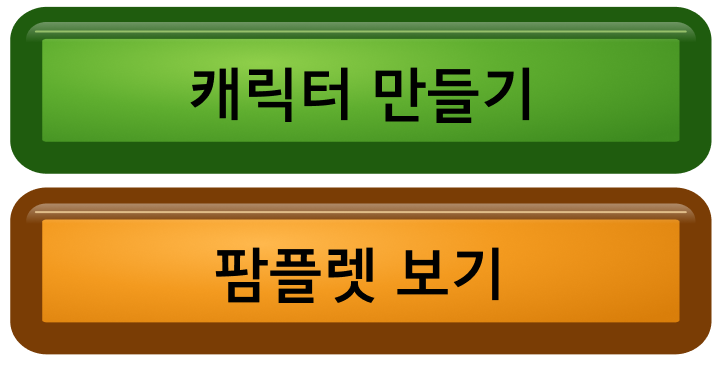
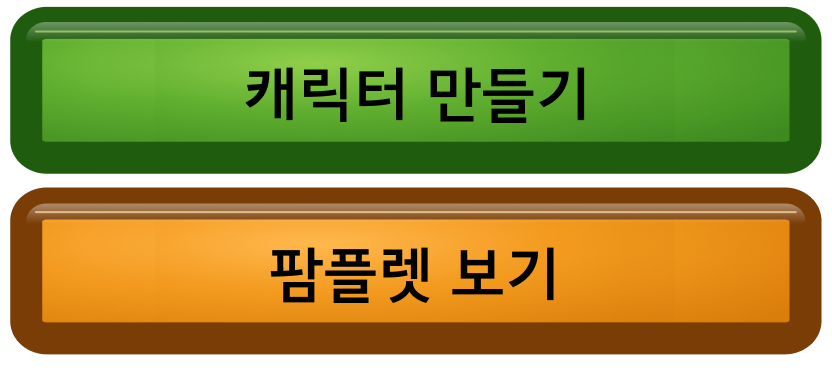
Widen the landing CTA button shape without stretching the text
Since the button graphic is a single flattened PNG, a plain width
increase would have stretched the text too. Instead widened the source
image itself: inserted extra pixels into the flat background zones on
either side of the text (each seeded from a narrow sample of that same
flat area and smoothly resized in, so the diagonal shine keeps flowing
continuously across the seam), leaving the text glyphs byte-identical.
722x382 -> 832x382. Box width recalculated to match the new aspect ratio
at the same height, so the text renders at exactly its old size.

diff --git a/src/components/LandingStep.tsx b/src/components/LandingStep.tsx
@@ -140,7 +140,7 @@ export default function LandingStep({ onStart }: { onStart: () => void }) {
           sits smaller and centered within it. */}
       <div className="relative z-10 w-full shrink-0" style={{ aspectRatio: '804 / 290' }}>
         <img src={ctaBgFooter} alt="" className="pointer-events-none absolute inset-0 size-full object-cover" />
-        <Box left={19} top={4.53} width={62} height={90.94}>
+        <Box left={14.28} top={4.53} width={71.44} height={90.94}>
           <img src={ctaImgButtons} alt="" className="pointer-events-none absolute size-full" />
           <button
             type="button"
